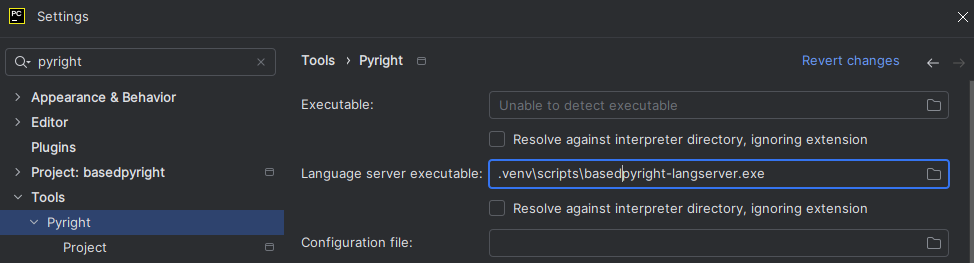
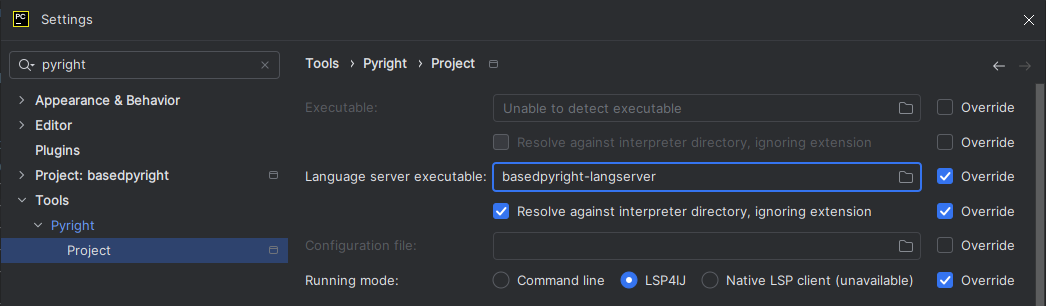
update pycharm setup instructions

diff --git a/docs/installation/ides.md b/docs/installation/ides.md
@@ -121,7 +121,7 @@ Emacs users have 3 options:
 
     1. install the [LSP4IJ](https://plugins.jetbrains.com/plugin/23257-lsp4ij) plugin
     2. install the [Pyright](https://plugins.jetbrains.com/plugin/24145) plugin
-    3. configure it to use basedpyright by specifying the path to the `basedpyright-langserver` executable:\
+    3. configure it to use basedpyright by specifying `basedpyright-langserver` as the executable and check the "Resolve against interpreter directory, ignoring extension" checkbox:\
         ![](./pycharm-lsp-exe.png)
     4. set "Running mode" to "LSP4IJ":\
         ![](./lsp4ij.png)
@@ -129,10 +129,25 @@ Emacs users have 3 options:
 === "PyCharm Professional / IntelliJ IDEA Ultimate"
 
     1. install the [Pyright](https://plugins.jetbrains.com/plugin/24145) plugin
-    2. configure it to use basedpyright by specifying the path to the `basedpyright-langserver` executable:\
+    3. configure it to use basedpyright by specifying `basedpyright-langserver` as the executable and check the "Resolve against interpreter directory, ignoring extension" checkbox:\
         ![](./pycharm-lsp-exe.png)
     3. set "Running mode" to "Native LSP client":\
         ![](./native-lsp.png)
+
+!!! tip
+
+    if you're adding basedpyright as a development dependency to your project, we recommend configuring these settings as overrides in the "Project" menu, and configuring the pyright plugin (and LSP4IJ if using pycharm community) as a recommended dependency:
+
+    ![](pycharm-recommended-dependency.png)
+
+
+    you should then commit the following generated config files, so that others working on your repo are promted to install the plugin and don't have to manually configure it themselves:
+
+    - `.idea/pyright-overrides.xml`
+    - `.idea/pyright.xml`
+    - `.idea/externalDependencies.xml`
+
+    (note that pycharm hides the `.idea` directory by default, so you will need to `git add` the files via the CLI instead.)
 
 ## Helix
 
